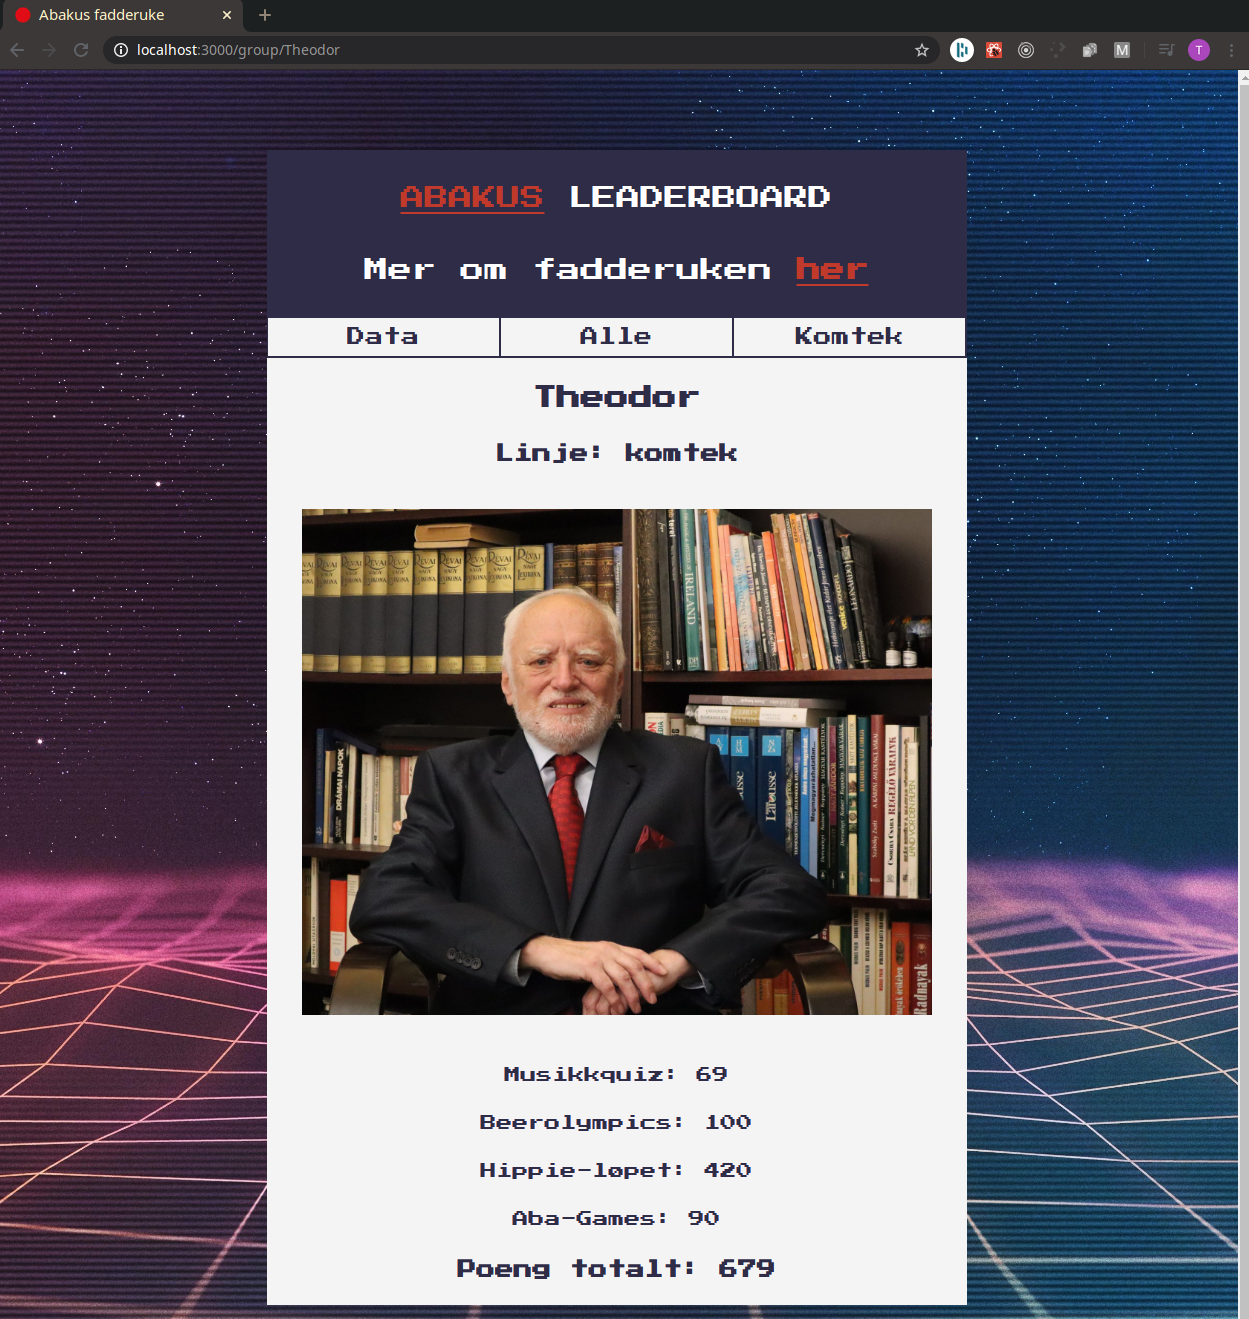
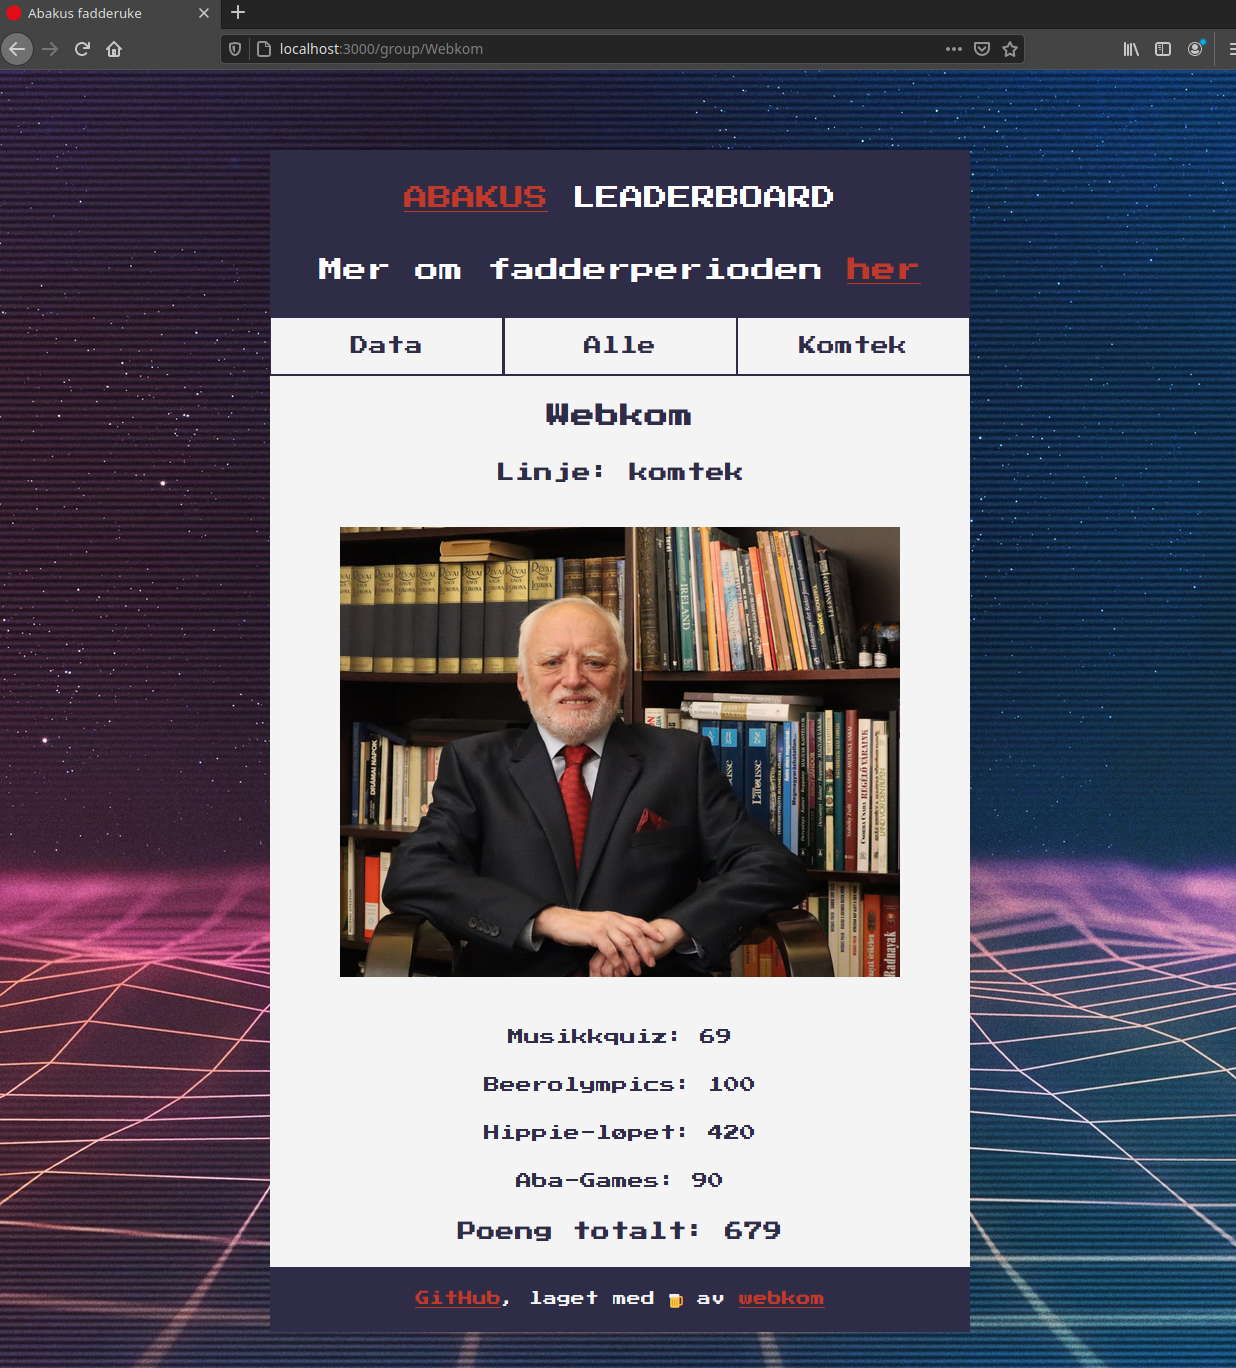
Add github link and new sc

diff --git a/webapp/src/Footer.js b/webapp/src/Footer.js
@@ -5,7 +5,14 @@ import Emoji from './Emoji';
 const Footer = () => (
   <div className="Footer">
     <p>
-      laget med <Emoji symbol="🍺" label="øl" /> av{' '}
+      <a
+        target="blank"
+        rel="noreferrer noopener"
+        href="https://github.com/webkom/fadderuke-leaderboard"
+      >
+        <b>GitHub</b>
+      </a>
+      , laget med <Emoji symbol="🍺" label="øl" /> av{' '}
       <a
         target="blank"
         rel="noreferrer noopener"
